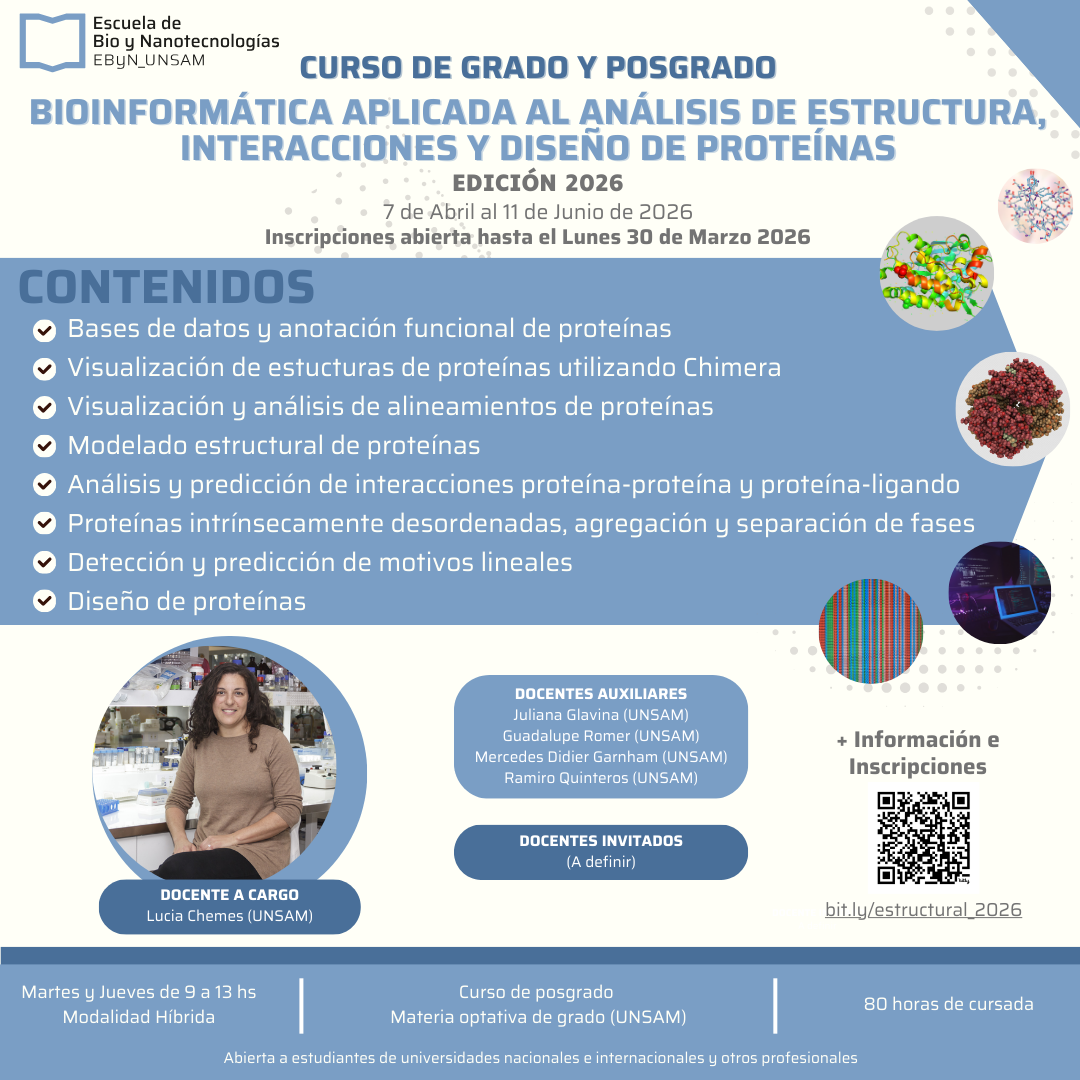
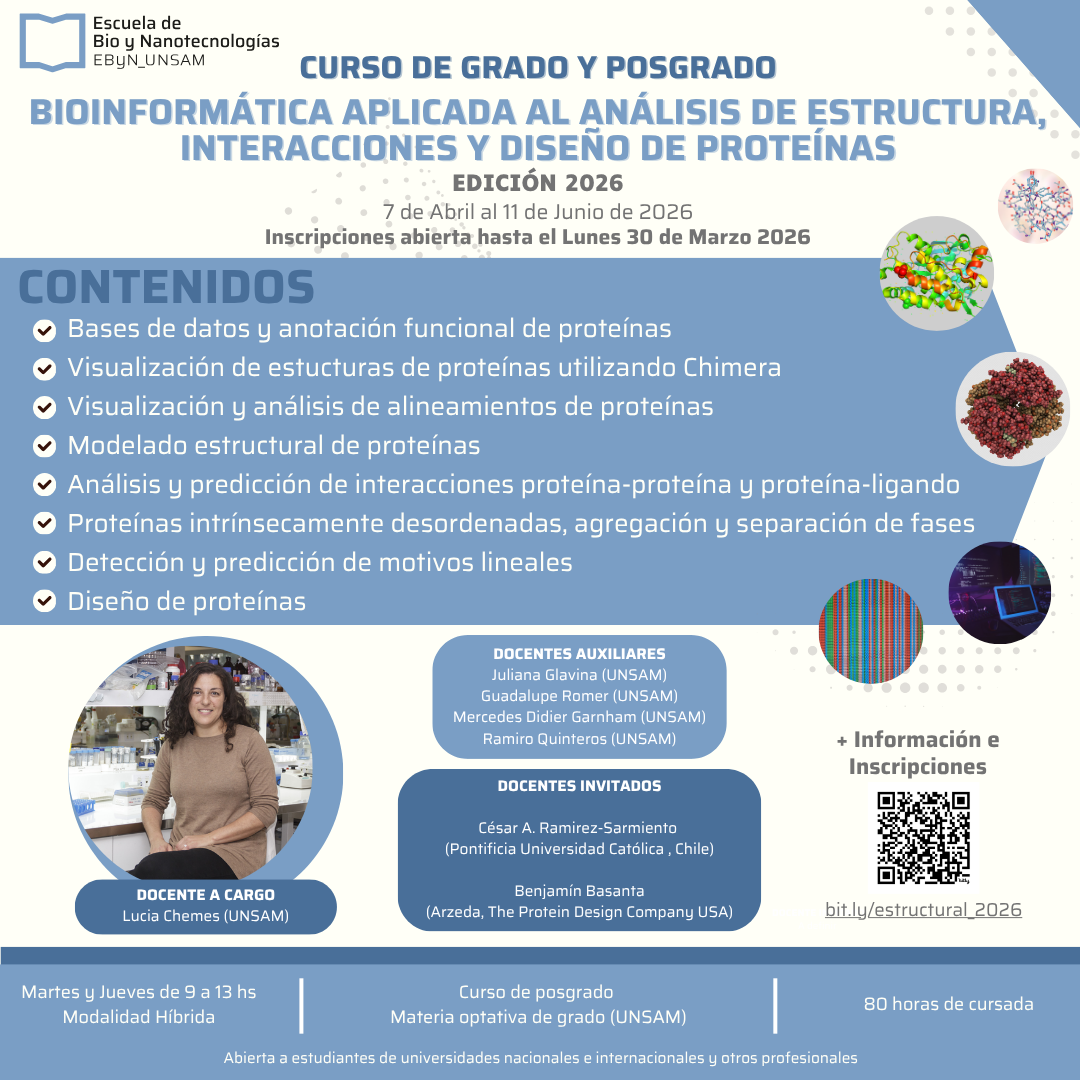
agrego docentes invitados

Changed region(s): [[0.0611, 0.5806, 0.7028, 0.8861]]

diff --git a/docs/docentes.md b/docs/docentes.md
@@ -41,7 +41,17 @@ tags:
 
 ## **Profesores invitados** 
 
-(A definir)
+* **Cesar A. Ramirez-Sarmiento, PhD**
+    
+    Protein Biophysics, Biochemistry and Bioinformatics Lab (PB3)
+    
+    Pontificia Universidad Católica de Chile
+
+* **Benjamín Basanta, PhD**
+  
+    Computational Protein Design at Arzeda, a Protein Design company co-founded by David Baker and associated with the Institute for Protein Design
+  
+    Seattle, Washington USA
 
 <!-- <br>Dr. Toby J. Gibson
 
